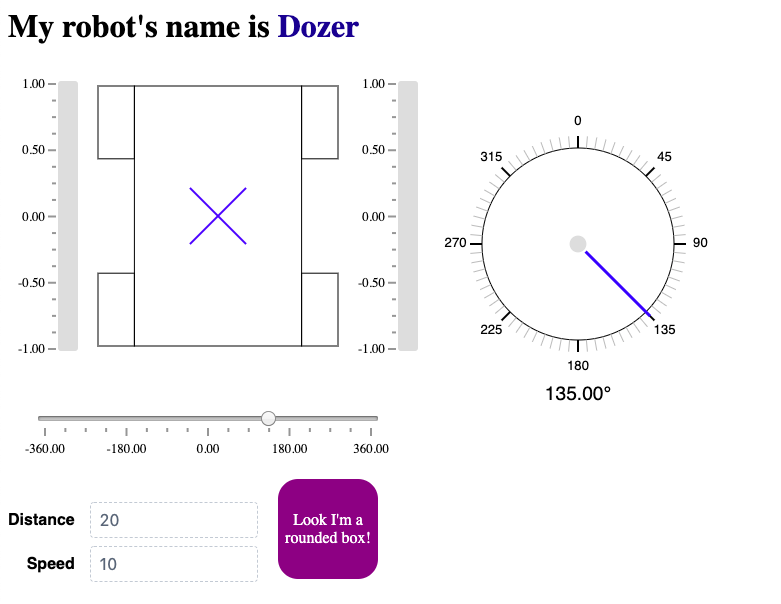
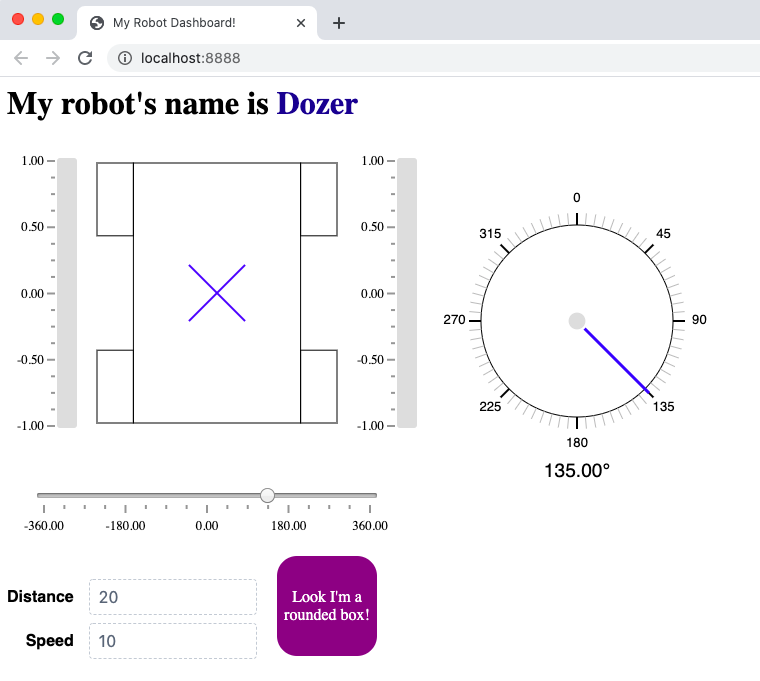
Updated readme

diff --git a/README.rst b/README.rst
@@ -3,14 +3,33 @@ FRC Web Components
 
 A set of web components to build custom dashboards for the `FIRST Robotics Competition (FRC) <https://www.firstinspires.org/robotics/frc>`_. 
 
-FRC Web Components works with `pynetworktables2js <https://github.com/robotpy/pynetworktables2js>`_ to communicate with your robot over NetworkTables. To use, run **pynetworktables2js** where you're serving your HTML files, include the **frc-web-components.js** file as a script in your HTML page, and wrap your HTML in a``<frc-dashboard></frc-dashboard>`` tag, and you're ready to go!
+FRC Web Components works with `pynetworktables2js <https://github.com/robotpy/pynetworktables2js>`_ to communicate with your robot over NetworkTables. To use, run **pynetworktables2js** where you're serving your HTML files, include the **frc-web-components.js** file as a script in your HTML page, and wrap your HTML in a **frc-dashboard** tag, and you're ready to go!
 
 .. code:: html
 
   <html>
-    <head></head>
+    <head>
+      <title>My Robot Dashboard!</title>
+      <style>
+        h1 frc-label {
+          color: darkblue;
+        }
+
+        .rounded-box {
+          color: white;
+          margin: 20px;
+        }
+
+        .rounded-box::part(box) {
+          border-radius: 20%;
+        }
+      </style>
+    </head>
+
     <body>
+
       <frc-dashboard>
+        
         <nt-number key="/angle" value="135"></nt-number>
         <nt-string key="/robotName" value="Dozer"></nt-string>
         <nt-boolean key="/box/value" value="true"></nt-boolean>
@@ -37,6 +56,8 @@ FRC Web Components works with `pynetworktables2js <https://github.com/robotpy/py
           Look I'm a rounded box!
         </frc-boolean-box>
       </frc-dashboard>
+
+      <script src="./frc-web-components.js"></script>
     </body>
   </html>
 
